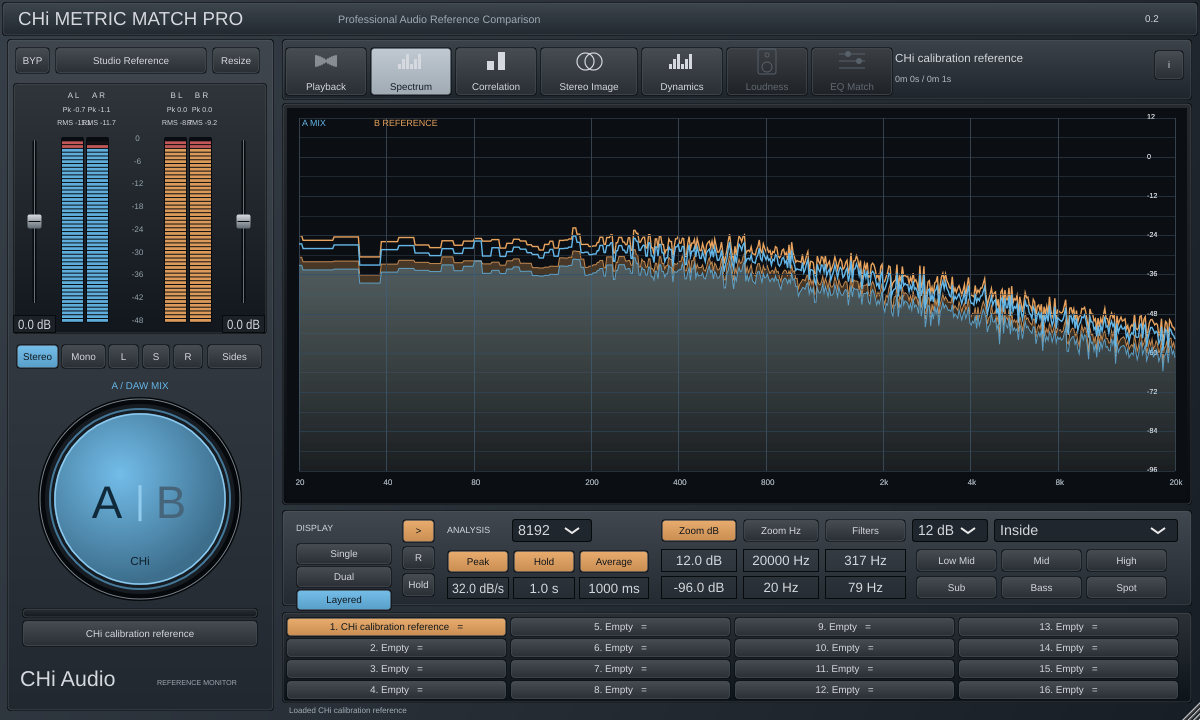
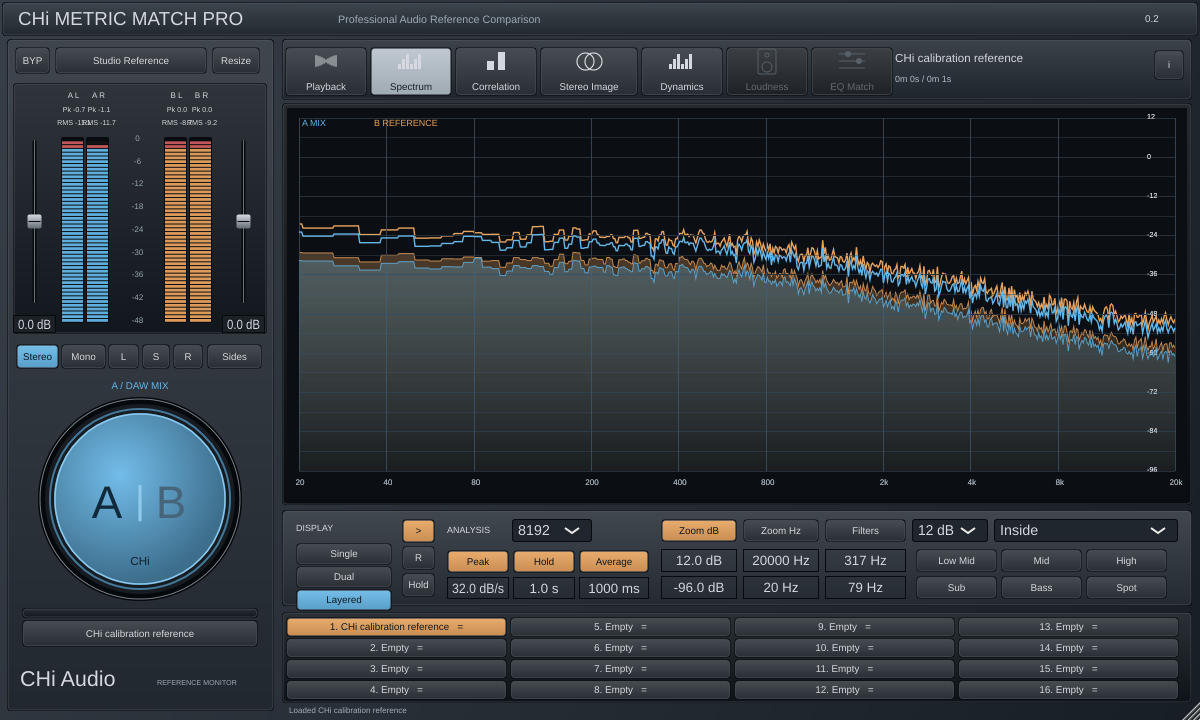
Align graph gestures and filter highlights with visible axes; overlap FFT frames

Changed region(s): [[0.2467, 0.3056, 0.9867, 0.5194]]

diff --git a/Source/PluginEditor.cpp b/Source/PluginEditor.cpp
@@ -220,6 +220,7 @@ juce::ComboBox &MetricEditor::combo(const juce::String &id, juce::Rectangle<int>
 MetricEditor::MetricEditor(MetricProcessor &p)
     : AudioProcessorEditor(p), panel(*this), processor(p) {
     setLookAndFeel(&style);
+    panel.setComponentID("content");
     addAndMakeVisible(panel);
     setResizable(true, true);
     setResizeLimits(960, 576, 1920, 1152);
@@ -498,7 +499,7 @@ void MetricEditor::graphMouse(const juce::MouseEvent &e, bool drag) {
                     meterHold[static_cast<size_t>(s)][static_cast<size_t>(c)] = 0;
             }
     }
-    auto r = juce::Rectangle<float>(286, 104, 896, 395);
+    auto r = juce::Rectangle<float>(287, 108, 900, 391);
     if (!r.contains(e.position))
         return;
     if (processor.value("tab") < .5f) {
@@ -527,8 +528,15 @@ void MetricEditor::graphMouse(const juce::MouseEvent &e, bool drag) {
         processor.set("high", 20000);
         return;
     }
-    const float centre =
-        minHz() * std::pow(maxHz() / minHz(), (e.position.x - r.getX()) / r.getWidth());
+    const int page = juce::roundToInt(processor.value("tab"));
+    if (page == 4)
+        return;
+    auto plot = r.reduced(12, 10).withTrimmedBottom(18);
+    const float normalized =
+        juce::jlimit(0.0f, 1.0f,
+                     page == 3 ? (plot.getBottom() - e.position.y) / plot.getHeight()
+                               : (e.position.x - plot.getX()) / plot.getWidth());
+    const float centre = minHz() * std::pow(maxHz() / minHz(), normalized);
     float ratio = drag ? processor.value("high") / juce::jmax(20.0f, processor.value("low")) : 4;
     processor.set("low", juce::jlimit(20.0f, 20000.0f, centre / std::sqrt(ratio)));
     processor.set("high", juce::jlimit(20.0f, 20000.0f, centre * std::sqrt(ratio)));
@@ -544,6 +552,8 @@ void MetricEditor::configureFFT() {
     window = std::make_unique<juce::dsp::WindowingFunction<float>>(
         static_cast<size_t>(fftSize), juce::dsp::WindowingFunction<float>::hann, false);
     for (auto &data : frame)
+        data.assign(static_cast<size_t>(fftSize * 2), 0);
+    for (auto &data : fftWork)
         data.assign(static_cast<size_t>(fftSize * 2), 0);
     for (int s = 0; s < 2; ++s) {
         for (auto &curve : curves[static_cast<size_t>(s)])
@@ -568,20 +578,23 @@ void MetricEditor::resetAnalysis() {
     panel.repaint();
 }
 void MetricEditor::transformFrame() {
-    for (auto &data : frame) {
+    for (size_t c = 0; c < 4; ++c) {
+        auto &data = fftWork[c];
+        std::copy_n(frame[c].begin(), fftSize, data.begin());
         window->multiplyWithWindowingTable(data.data(), static_cast<size_t>(fftSize));
         std::fill(data.begin() + fftSize, data.end(), 0);
         fft->performRealOnlyForwardTransform(data.data(), true);
     }
-    const float dt = static_cast<float>(fftSize / processor.currentRate.load()),
+    const float dt = static_cast<float>(juce::jmin(2048, fftSize / 4) /
+                                        processor.currentRate.load()),
                 time = processor.value("averageTime") * .001f,
                 alpha = time <= 0 ? 1.0f / static_cast<float>(++analyzedFrames)
                                   : 1 - std::exp(-dt / time);
     for (int s = 0; s < 2; ++s)
         for (int i = 0; i <= fftSize / 2; ++i) {
             const auto bin = static_cast<size_t>(i), j = static_cast<size_t>(i * 2);
-            auto &l = frame[static_cast<size_t>(s * 2)];
-            auto &r = frame[static_cast<size_t>(s * 2 + 1)];
+            auto &l = fftWork[static_cast<size_t>(s * 2)];
+            auto &r = fftWork[static_cast<size_t>(s * 2 + 1)];
             const float pl = l[j] * l[j] + l[j + 1] * l[j + 1],
                         pr = r[j] * r[j] + r[j + 1] * r[j + 1],
                         normal = i == 0 ? 2.0f / fftSize : 4.0f / fftSize;
@@ -635,7 +648,11 @@ void MetricEditor::timerCallback() {
                     processor.analysis[c][static_cast<size_t>(source)];
             if (++framePosition == fftSize) {
                 transformFrame();
-                framePosition = 0;
+                const int hop = juce::jmin(2048, fftSize / 4);
+                for (auto &data : frame)
+                    std::memmove(data.data(), data.data() + hop,
+                                 static_cast<size_t>(fftSize - hop) * sizeof(float));
+                framePosition = fftSize - hop;
             }
         }
     processor.analysisFifo.finishedRead(n1 + n2);
@@ -958,15 +975,43 @@ void MetricEditor::draw(juce::Graphics &g) {
             drawGraph(g, graph, selected, type);
     }
 
-    if (type != 0 && type != 3 && processor.value("filters") > .5f) {
-        float low = juce::jmin(processor.value("low"), processor.value("high")),
-              high = juce::jmax(processor.value("low"), processor.value("high"));
-        float x1 = 299 + std::log(low / minHz()) / std::log(maxHz() / minHz()) * 876,
-              x2 = 299 + std::log(high / minHz()) / std::log(maxHz() / minHz()) * 876;
-        g.setColour(silver.withAlpha(.07f));
-        g.fillRect(x1, 118.f, juce::jmax(1.f, x2 - x1), 353.f);
-        g.setColour(silver.withAlpha(.4f));
-        g.drawRect(x1, 118.f, juce::jmax(1.f, x2 - x1), 353.f, 1.f);
+    if (type >= 1 && type <= 3 && processor.value("filters") > .5f) {
+        const float low = juce::jmin(processor.value("low"), processor.value("high"));
+        const float high = juce::jmax(processor.value("low"), processor.value("high"));
+        const int region = juce::roundToInt(processor.value("filterMode"));
+        const int panels = display == 1 ? 2 : 1;
+        for (int i = 0; i < panels; ++i) {
+            auto area = graph;
+            if (panels == 2) {
+                if (type == 3)
+                    area = graph.withWidth(graph.getWidth() * .5f)
+                               .translated(i * graph.getWidth() * .5f, 0);
+                else
+                    area = graph.withHeight(graph.getHeight() * .5f)
+                               .translated(0, i * graph.getHeight() * .5f);
+            }
+            auto plot = area.reduced(12, 10).withTrimmedBottom(18);
+            float l = juce::jlimit(0.f, 1.f, std::log(low / minHz()) / std::log(maxHz() / minHz()));
+            float h =
+                juce::jlimit(0.f, 1.f, std::log(high / minHz()) / std::log(maxHz() / minHz()));
+            if (region == 0) {
+                h = l;
+                l = 0;
+            } else if (region == 2) {
+                l = h;
+                h = 1;
+            }
+            auto band =
+                type == 3
+                    ? juce::Rectangle<float>(plot.getX(), plot.getBottom() - h * plot.getHeight(),
+                                             plot.getWidth(), (h - l) * plot.getHeight())
+                    : juce::Rectangle<float>(plot.getX() + l * plot.getWidth(), plot.getY(),
+                                             (h - l) * plot.getWidth(), plot.getHeight());
+            g.setColour(silver.withAlpha(.07f));
+            g.fillRect(band);
+            g.setColour(silver.withAlpha(.4f));
+            g.drawRect(band, 1.f);
+        }
     }
     uiText(g, "A MIX", {302, 115, 70, 16}, 10, blue);
     uiText(g, "B REFERENCE", {374, 115, 130, 16}, 10, amber);

diff --git a/Tests/DSPTests.cpp b/Tests/DSPTests.cpp
@@ -331,7 +331,31 @@ void testAnalysis() {
             "Hann FFT normalization wrong");
     require(editor->spectrumDb(1, frequency) < -100,
             "Silent reference must not fabricate spectrum");
-    std::cout << "PASS: real FIFO/FFT path, calibrated sine magnitude and silent B spectrum.\n";
+    auto *content = findControl(*editor, "content");
+    require(content != nullptr, "Main interactive panel missing");
+    auto click = [&](juce::Point<float> point, int modifiers, int count = 1) {
+        auto now = juce::Time::getCurrentTime();
+        juce::MouseEvent event(juce::Desktop::getInstance().getMainMouseSource(), point,
+                               juce::ModifierKeys(modifiers), 1, 0, 0, 0, 0, content, content, now,
+                               point, now, count, false);
+        content->mouseDown(event);
+    };
+    p.set("tab", 1);
+    click({737, 290}, juce::ModifierKeys::leftButtonModifier);
+    require(std::abs(p.value("low") - 316.23f) < 1 && std::abs(p.value("high") - 1264.91f) < 1,
+            "Spot frequency must match graph position");
+    click({737, 290}, juce::ModifierKeys::rightButtonModifier);
+    require(p.value("filters") == 0, "Graph right-click bypass failed");
+    p.set("tab", 3);
+    click({500, 294.5f}, juce::ModifierKeys::leftButtonModifier);
+    require(std::abs(p.value("low") - 316.23f) < 1,
+            "Stereo Image Spot must use the vertical frequency axis");
+    click({737, 290}, juce::ModifierKeys::leftButtonModifier | juce::ModifierKeys::altModifier);
+    require(p.value("low") == 20 && p.value("high") == 20000, "Alt-click full-range reset failed");
+    click({137, 180}, juce::ModifierKeys::leftButtonModifier, 2);
+    require(p.value("meterZoom") == 1, "Meter double-click zoom failed");
+    std::cout << "PASS: real FIFO/FFT path, calibrated sine magnitude, silent B, graph Spot, "
+                 "bypass/reset and meter zoom gestures.\n";
 }
 void snapshotSignal(const juce::String &path) {
     const auto file = juce::File::getSpecialLocation(juce::File::tempDirectory)

diff --git a/Source/PluginProcessor.cpp b/Source/PluginProcessor.cpp
@@ -117,8 +117,8 @@ bool MetricProcessor::isBusesLayoutSupported(const BusesLayout &layout) const {
 void MetricProcessor::FilterBank::configure(double rate, double low, double high, int mode,
                                             int slope) {
     count = 0;
-    low = juce::jlimit(5.0, rate * .45, low);
-    high = juce::jlimit(low, rate * .45, high);
+    low = juce::jlimit(5.0, rate * .49, low);
+    high = juce::jlimit(low, rate * .49, high);
     const std::array<std::array<double, 4>, 4> q{{{{.70710678, 0, 0, 0}},
                                                   {{.5411961, 1.306563, 0, 0}},
                                                   {{.517638, .70710678, 1.931852, 0}},

diff --git a/Source/PluginEditor.h b/Source/PluginEditor.h
@@ -95,7 +95,7 @@ class MetricEditor final : public juce::AudioProcessorEditor, private juce::Time
     std::unique_ptr<juce::FileChooser> chooser;
     std::unique_ptr<juce::dsp::FFT> fft;
     std::unique_ptr<juce::dsp::WindowingFunction<float>> window;
-    std::array<std::vector<float>, 4> frame;
+    std::array<std::vector<float>, 4> frame, fftWork;
     std::array<std::array<std::vector<float>, 2>, 2> curves; // stream, current/average
     std::array<std::vector<float>, 2> held, holdAge, powerAverage, pan, phase;
     std::array<std::array<float, 2>, 2> meterPeak{}, meterRms{}, meterHold{};
